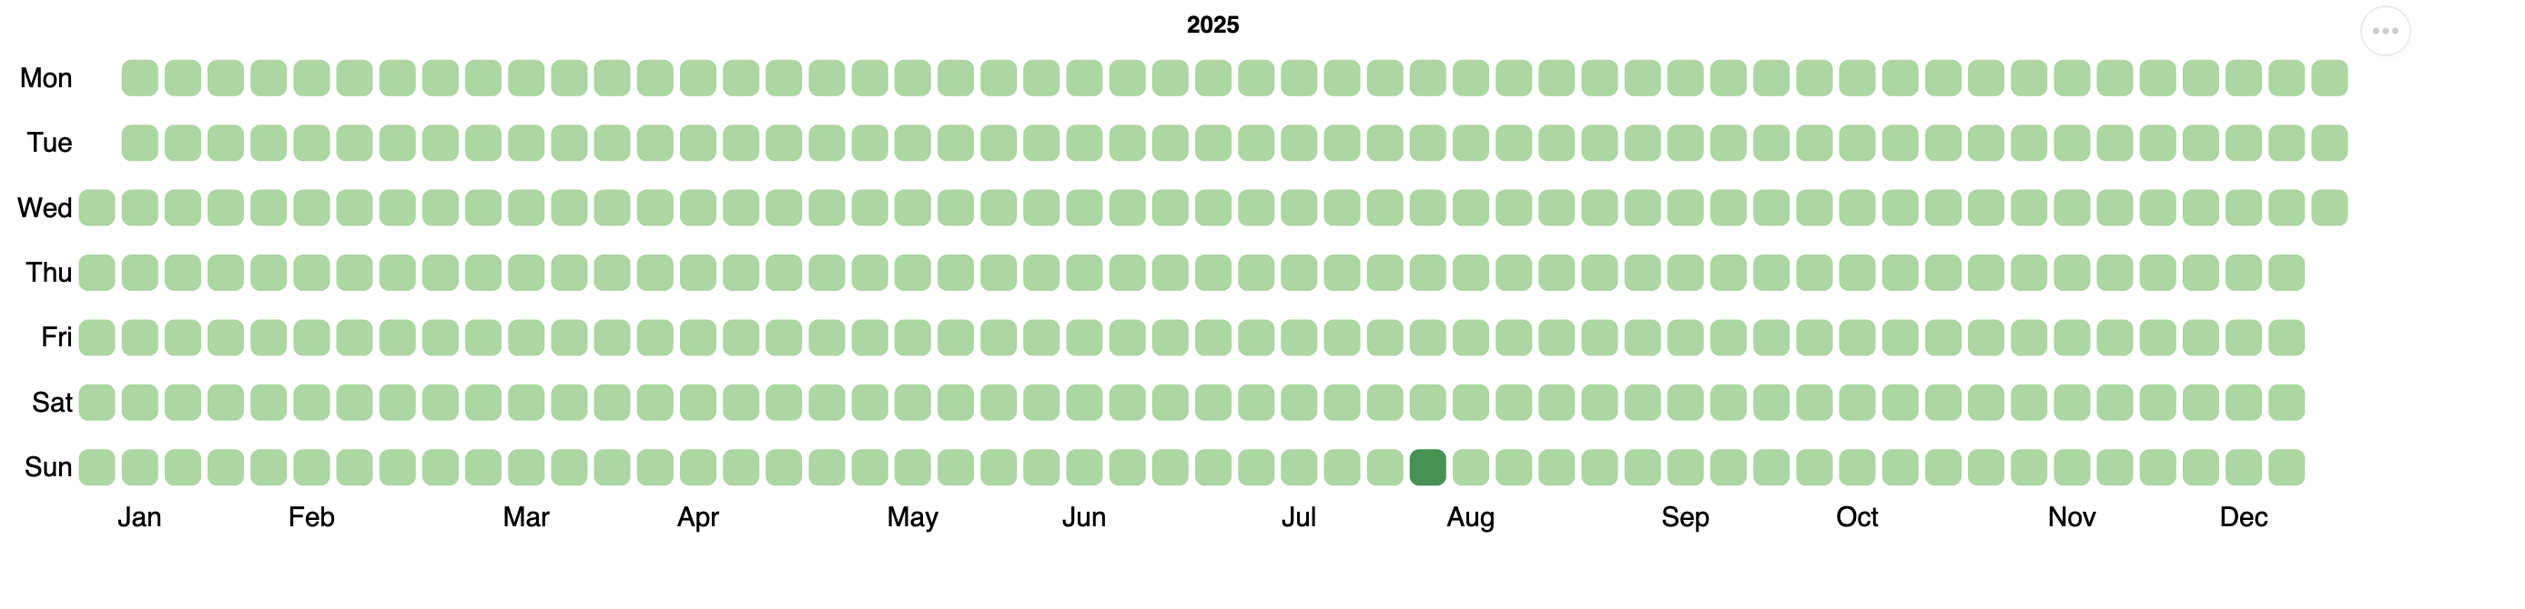
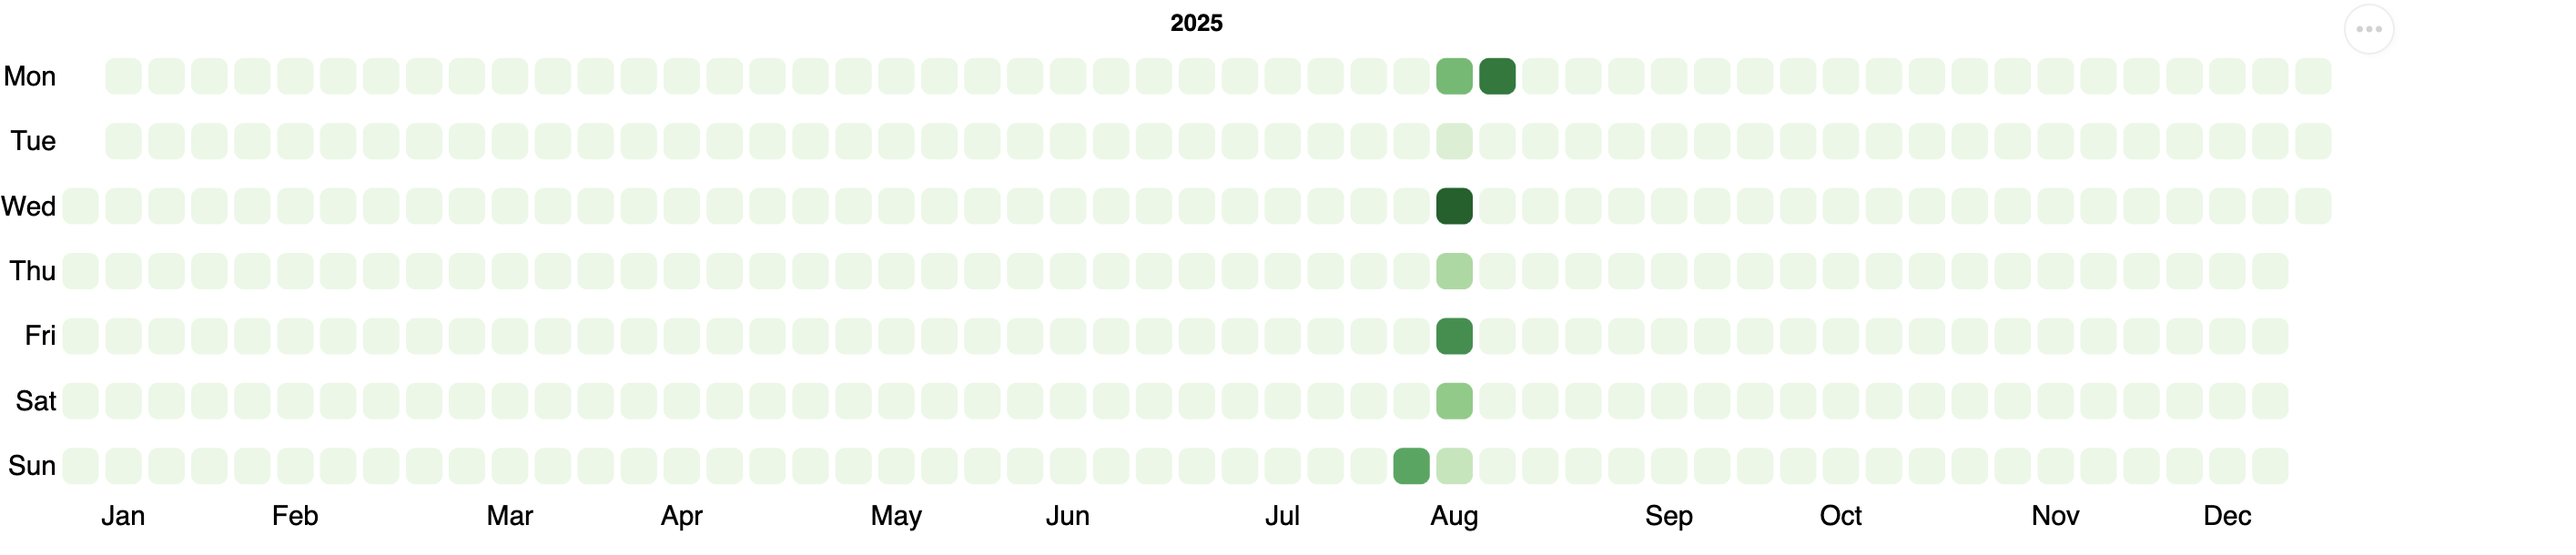
📚 Documentation - explains the use cases considered for total time tracking

diff --git a/setup.py b/setup.py
@@ -8,8 +8,7 @@ setup(
     packages=find_packages(),
     install_requires=[
         "rumps==0.4.0",
-        "lesley==0.3.0", 
-        "pandas==2.3.1"
+        "lesley==0.3.0"
     ],
     entry_points={
         'console_scripts': [

diff --git a/README.md b/README.md
@@ -4,6 +4,10 @@ A macOS menu bar application that tracks your Raycast focus sessions and display
 
 Monitor your focus patterns, build streaks, and visualize your productivity over time with a clean menu bar interface and GitHub-style calendar heatmaps.
 
+## How Session Completion is Handled
+
+The tracker accurately captures your actual focus time by intelligently processing Raycast's activity summaries. Early completions show real focus time (not planned time), cancelled sessions don't count toward totals, pause time is excluded from duration calculations, and multiple sessions per goal are tracked separately. Only completed, non-cancelled sessions contribute to daily totals and streak calculations, ensuring your statistics reflect genuine productivity.
+
 ## Installation
 
 ```bash
@@ -52,5 +56,4 @@ The app displays a 🎯 icon in your menu bar showing:
 ## Dependencies
 
 - [rumps](https://github.com/jaredks/rumps) - macOS menu bar framework
-- [lesley](https://github.com/astariul/lesley) - Calendar heatmap visualization  
-- [pandas](https://pandas.pydata.org/) - Data processing
+- [lesley](https://github.com/astariul/lesley) - Calendar heatmap visualization
